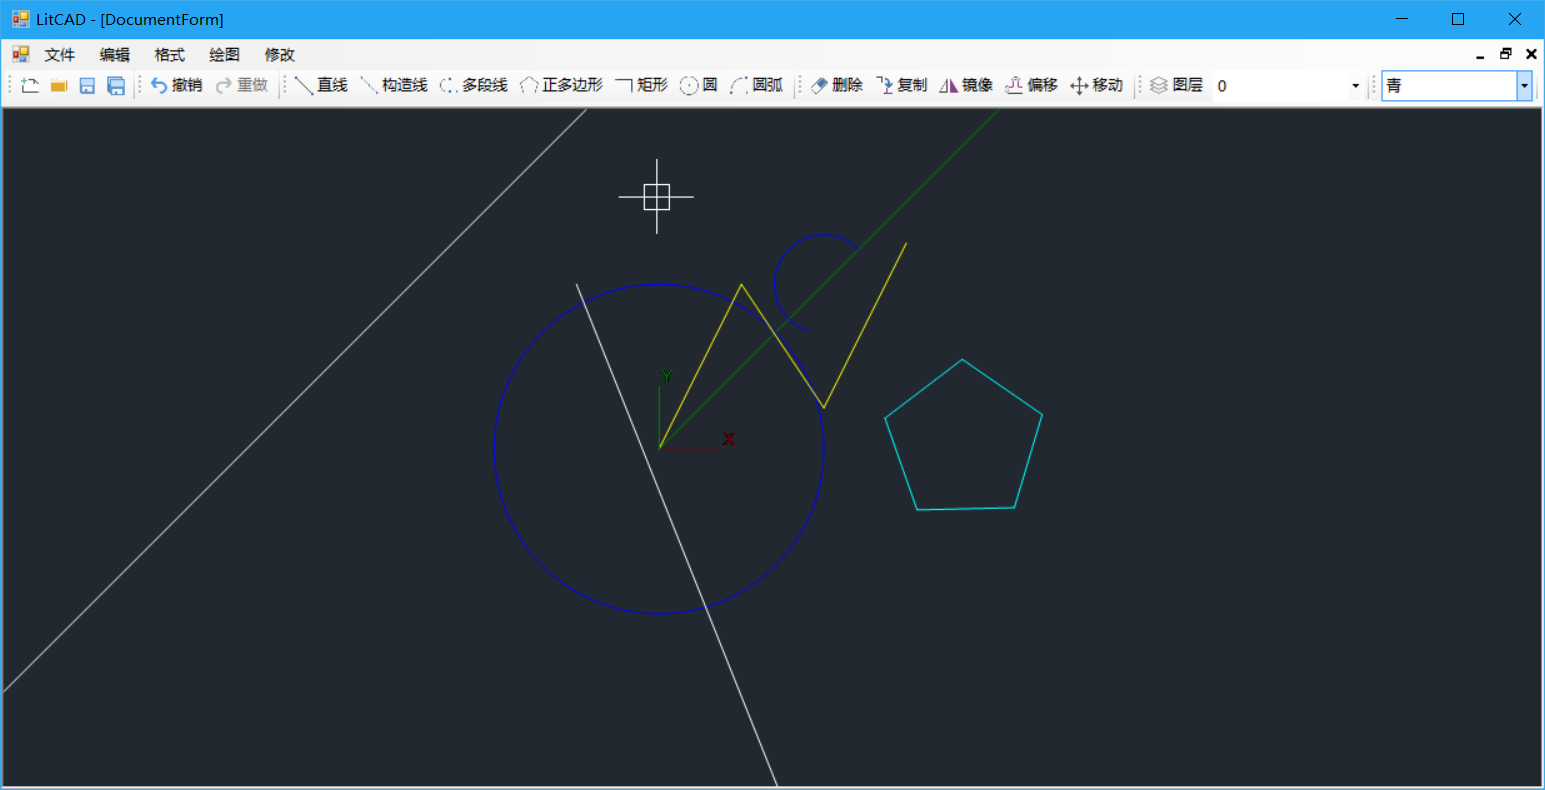
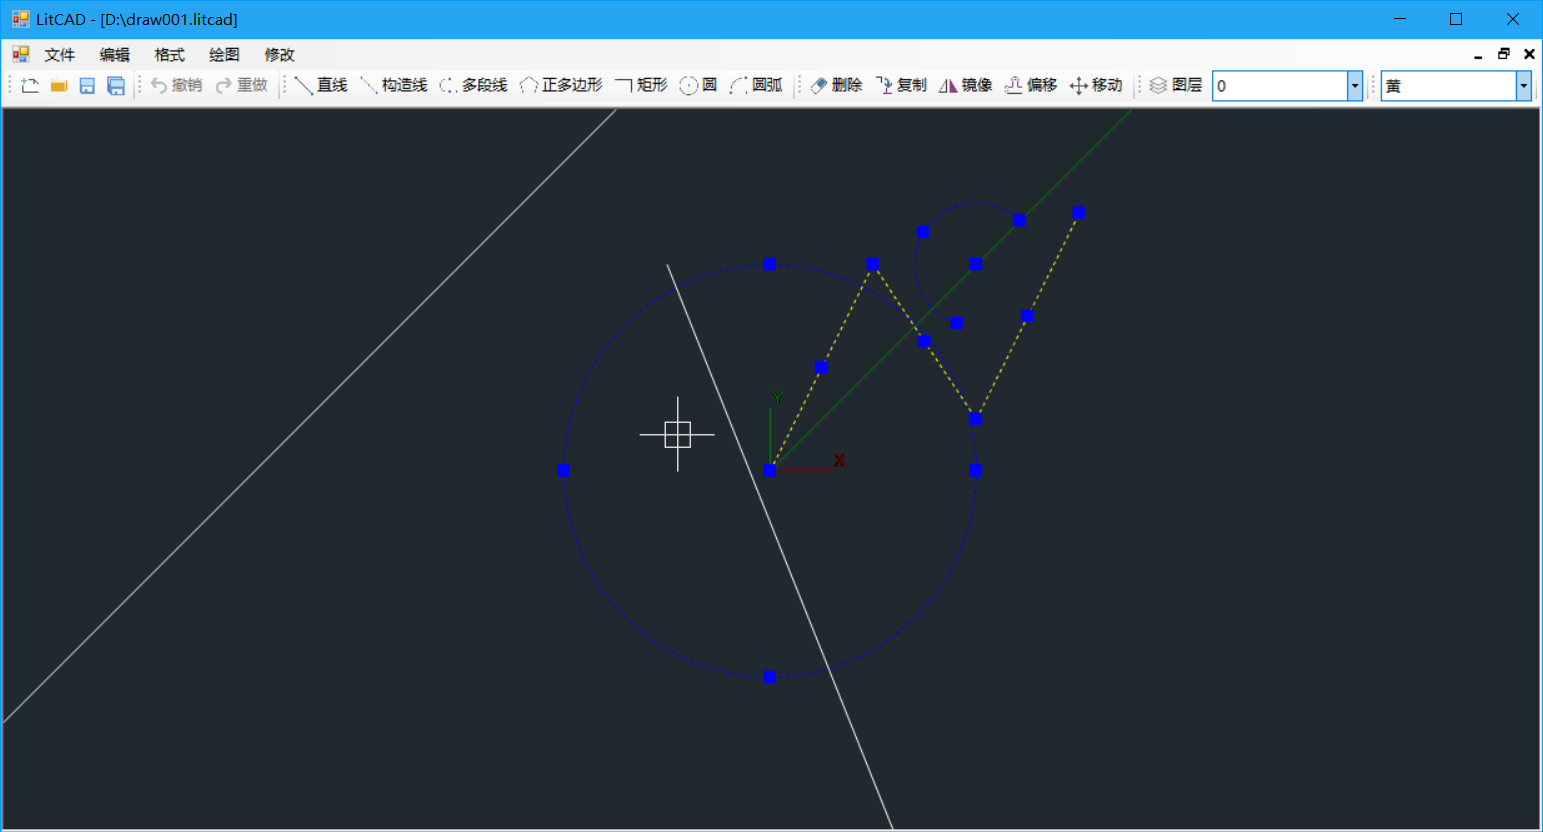
更新项目介绍：README.md。

diff --git a/README.md b/README.md
@@ -11,7 +11,7 @@ LitCAD是自由软件，你可以在遵守 MIT 协议下再分发或修改该软
 
 #### Building 编译
 
-Download the source code and open ./src/LitCAD.sln through Visual Studio 2010, then you can directly compile and build this project.
+Download the source code and open ./src/LitCAD.sln by Visual Studio 2010, then you can directly compile and build this project.
 
 下载源码，然后使用VS2010 打开解决方案：./src/LitCAD.sln，直接编译即可。
 
@@ -44,6 +44,14 @@ Download the source code and open ./src/LitCAD.sln through Visual Studio 2010, t
 * Undo and Redo.
 
   撤销和重做。
+
+* Multiple Ways For Object Selection: Pick Single、Window、Cross.
+
+  支持点选和框选来选择图元。
+
+* Open and Save *.litcad file.
+
+  支持打开和保存为 *.litcad 文件。
 
 #### Entities supported 支持的图元
 
